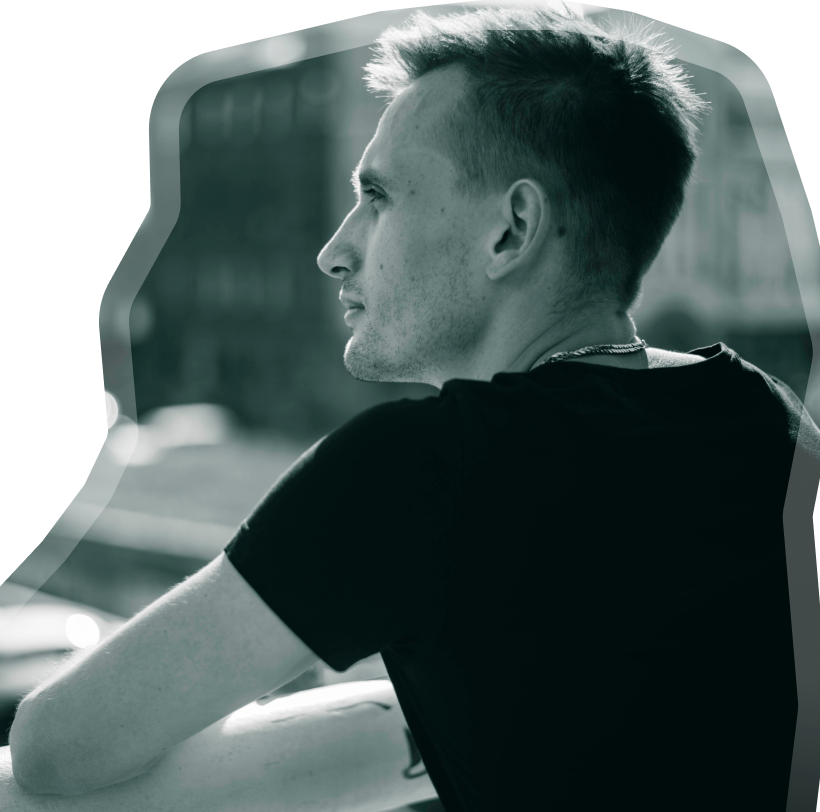
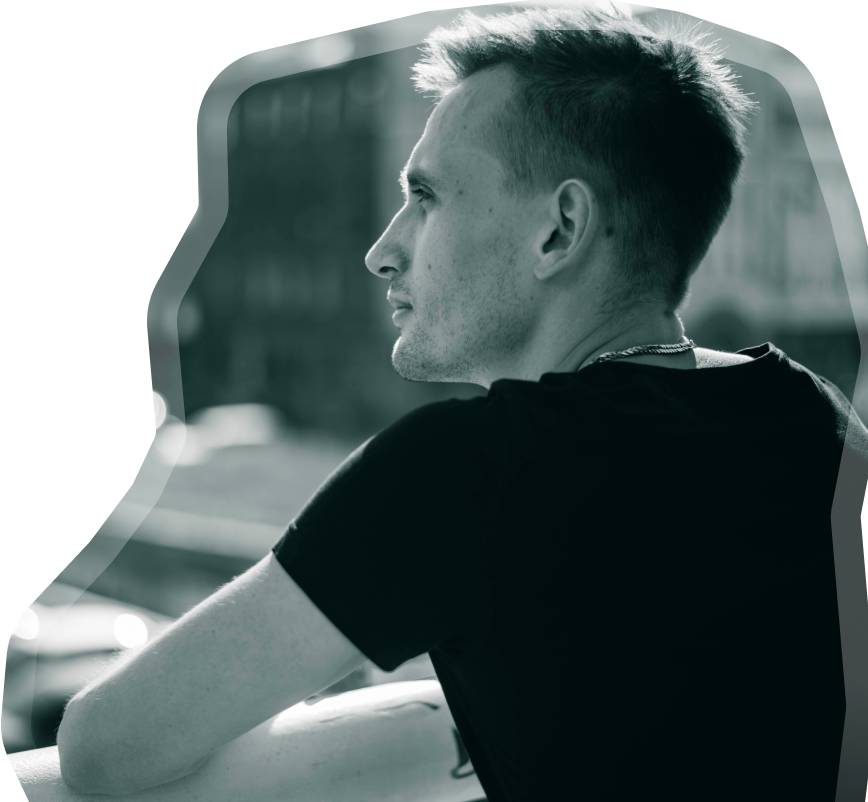
fix:corrected code in contacts

diff --git a/css/style.css b/css/style.css
@@ -2223,7 +2223,7 @@ ul {
       flex-direction: column; } }
 
 .contacts__content {
-  padding: 98px 0 0 132px; }
+  padding: 98px 0 13px 132px; }
   @media (max-width: 768px) {
     .contacts__content {
       padding: 0;
@@ -2276,11 +2276,9 @@ ul {
 .contacts__content .file-save {
   margin-top: 0; }
 
-.contacts__image {
-  width: 100%; }
-  .contacts__image img {
-    width: 100%;
-    height: 100%;
-    object-fit: contain; }
+.contacts__image img {
+  width: 100%;
+  height: 100%;
+  object-fit: cover; }
 
 /*# sourceMappingURL=style.css.map */

diff --git a/sass/pages/_section-contacts.scss b/sass/pages/_section-contacts.scss
@@ -11,7 +11,7 @@
 }
 
 .contacts__content {   
-    padding: 98px 0 0 132px;
+    padding: 98px 0 13px 132px;
     //*mobile big
     @media (max-width: 768px) {
        padding: 0 ; 
@@ -78,11 +78,10 @@
     margin-top: 0;
 }
 .contacts__image {
-    //display: none;
-    width: 100%;
-    & img {
+    &  img {
         width: 100%;
         height: 100%;
-        object-fit: contain;
-    }
+        object-fit: cover;
+     }
+   
 }

diff --git a/js/sliders.js b/js/sliders.js
@@ -37,7 +37,7 @@ const carouselLine2 = document.querySelector('.slider-line');
 const prevButtonCarousel2 = document.querySelector('.button-prev');
 const nextButtonCarousel2 = document.querySelector('.button-next');
 const dots = document.querySelectorAll('.dot');
-const slideWidth = 480; // Ширина слайда
+const slideWidth = 420; // Ширина слайда
 let positionCarouselRev = 0;
 let dotIndex = 0;
 
